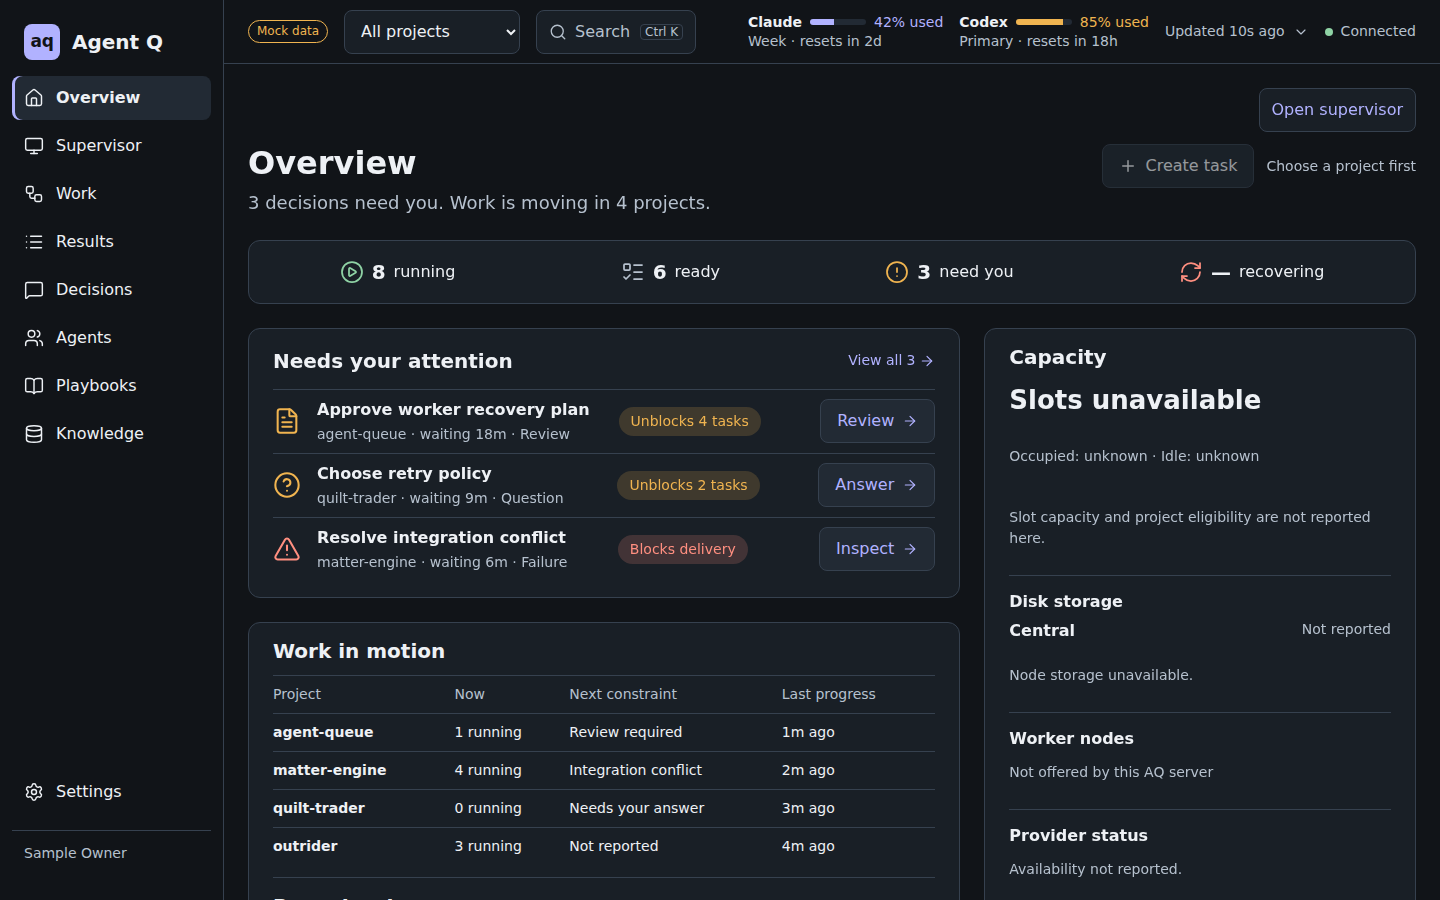
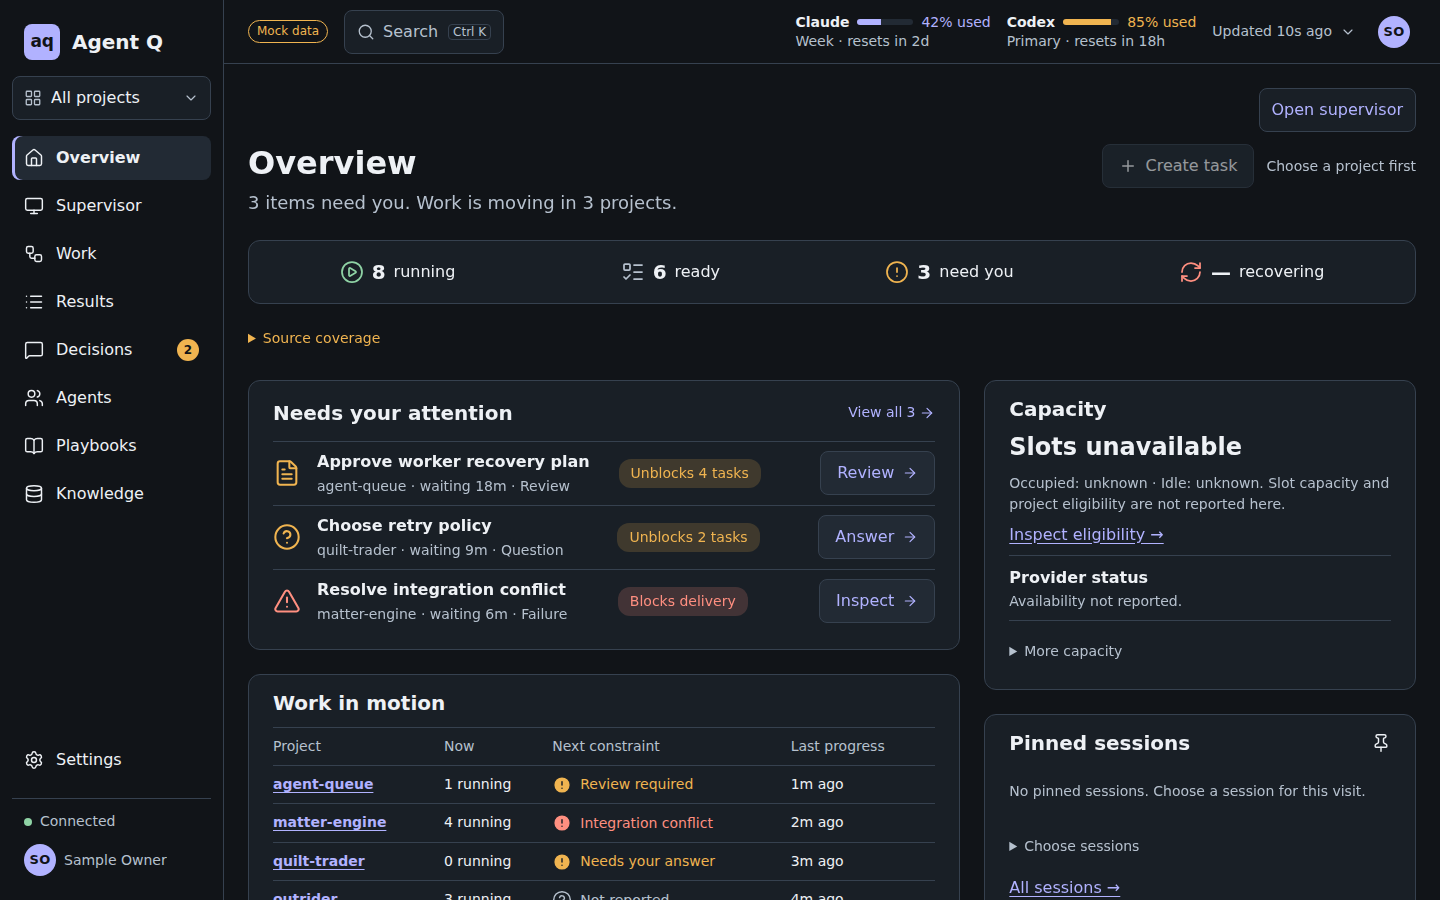
fix(shell,overview): Decisions badge counts reviews+questions; needs_you copy says items; usage staleness follows poll (RR-02, SO-08)
- RR-02: aq-server #97 made counts.needs_you count every attention item
  (offline workers, failed results). The rail Decisions badge now sums the
  overview's reviews and questions source totals (approximate unless all
  are exact and complete; no badge when unknown or zero). The Overview
  summary says "N items need you" instead of "decisions". Mock overview
  publishes reviews/questions sources like the server.
- SO-08: a provider usage reading is stale only once it outlives both its
  fresh_until and the 60 s poll interval plus a 30 s margin; unknown-quality
  readings report nothing to age and are never stale. A failed refresh
  still marks retained values stale.

diff --git a/src/app/Shell.test.tsx b/src/app/Shell.test.tsx
@@ -3,7 +3,8 @@ import userEvent from "@testing-library/user-event";
 import { vi } from "vitest";
 import { http, HttpResponse } from "msw";
 import { setupServer } from "msw/node";
-import { handlersFor } from "../mocks/handlers";
+import { envelope, handlersFor } from "../mocks/handlers";
+import { overview } from "../mocks/inspectionData";
 import { renderApp } from "../test/renderApp";
 import usageFixture from "../../contracts/proposed/provider-usage.json";
 
@@ -206,10 +207,28 @@ test("desktop rail holds the scope picker; the header does not", async () => {
   expect(within(screen.getByRole("banner")).queryByRole("combobox")).not.toBeInTheDocument();
 });
 
-test("Decisions shows the scoped pending count from the overview", async () => {
+test("Decisions shows the scoped open-decision count (reviews + questions), not every attention item (RR-02)", async () => {
+  // The fixture has 3 attention rows: a decision, a question and a failure.
   renderApp("/overview");
   const nav = await rail();
-  expect(await within(nav).findByRole("link", { name: "Decisions, 3 pending" })).toBeInTheDocument();
+  expect(await within(nav).findByRole("link", { name: "Decisions, 2 pending" })).toBeInTheDocument();
+});
+
+test("RR-02: needs_you counting offline workers and failed results never inflates the Decisions badge", async () => {
+  // Shape of the live MS1 overview: 6 attention items, none of them a review or question.
+  const live = overview(null);
+  const respond = (reviews: number) => server.use(http.get("/api/v1/overview", () => HttpResponse.json(envelope({ ...live,
+    counts: { ...live.counts, needs_you: { value: 6, accuracy: "estimated" as const } },
+    sources: [{ source: "reviews", project: null, observation: null, coverage: { state: "partial" as const }, total: { value: reviews, accuracy: "estimated" as const } },
+      { source: "questions", project: null, observation: null, coverage: { state: "unknown" as const }, total: { value: null, accuracy: "unknown" as const } }] }))));
+  respond(0);
+  const { queryClient } = renderApp("/overview");
+  const nav = await rail();
+  await screen.findByText(/About 6 items need you\./);
+  expect(within(nav).getByRole("link", { name: "Decisions" })).toHaveTextContent(/^Decisions$/);
+  respond(4);
+  await queryClient.refetchQueries({ predicate: q => q.queryKey[4] === "overview" });
+  expect(await within(nav).findByRole("link", { name: "Decisions, 4 pending, approximate" })).toHaveTextContent("~4");
 });
 
 test("Decisions has no badge when nothing is pending", async () => {

diff --git a/src/api/adapters/providerUsage.ts b/src/api/adapters/providerUsage.ts
@@ -35,6 +35,24 @@ export type ProviderUsageResult = {
 };
 
 const KNOWN_STATES = new Set<string>(["known", "unknown", "unavailable"]);
+/** Usage poll budget (docs/plans/0001 section 2); subject to server limits. */
+export const USAGE_POLL_MS = 60_000;
+/** Slack for a slow poll before an unrefreshed reading counts as stale. */
+const USAGE_STALE_MARGIN_MS = 30_000;
+/**
+ * A reading is stale only once it outlives both its own fresh_until and the
+ * dashboard's poll interval plus a margin (SO-08): AQ may mark an observation
+ * fresh for seconds, but the strip only asks again every minute, so a short
+ * fresh_until alone would read "Stale" most of the time. An `unknown`-quality
+ * observation reports nothing that can age, so it is never marked stale.
+ * A failed refresh still marks the retained values stale (useProviderUsage).
+ */
+export function usageStale(serverTime: string, observedAt: string, freshUntil: string, quality: string): boolean {
+  if (quality === "unknown") return false;
+  if (!isStale(serverTime, freshUntil)) return false;
+  const now = Date.parse(serverTime), observed = Date.parse(observedAt);
+  return Number.isNaN(observed) || now > observed + USAGE_POLL_MS + USAGE_STALE_MARGIN_MS;
+}
 
 function adaptWindow(win: QuotaWindow, serverTime: string): QuotaWindowView {
   if (!isRecord(win) || typeof win.id !== 'string' || typeof win.label !== 'string' || !isRecord(win.observation) ||
@@ -51,7 +69,7 @@ function adaptWindow(win: QuotaWindow, serverTime: string): QuotaWindowView {
     usedPercent: state === "known" ? pct! : null,
     resetsAt: win.resets_at ?? null,
     state,
-    freshness: isStale(serverTime, win.observation.fresh_until) ? "stale" : "fresh",
+    freshness: usageStale(serverTime, win.observation.observed_at, win.observation.fresh_until, win.observation.quality) ? "stale" : "fresh",
     observedAt: win.observation.observed_at,
     freshUntil: win.observation.fresh_until,
     quality: win.observation.quality,
@@ -91,7 +109,7 @@ export function atServerTime(result: ProviderUsageResult, serverTime: string): P
       ...p,
       windows: p.windows.map((w) => ({
         ...w,
-        freshness: isStale(serverTime, w.freshUntil) ? "stale" : "fresh",
+        freshness: usageStale(serverTime, w.observedAt, w.freshUntil, w.quality) ? "stale" : "fresh",
       })),
     })),
   };

diff --git a/tests/overview-header.spec.ts b/tests/overview-header.spec.ts
@@ -48,7 +48,7 @@ for (const vp of VIEWPORTS) {
       await page.goto("/overview");
       await expect(page.getByRole("region", { name: "Needs your attention" }).getByRole("listitem").first()).toBeVisible({ timeout: 15_000 });
       // SO-07: only projects reporting running work count as moving (one of the four mock projects runs nothing).
-      await expect(summary(page)).toHaveText("3 decisions need you. Work is moving in 3 projects.");
+      await expect(summary(page)).toHaveText("3 items need you. Work is moving in 3 projects.");
       await expectStackedHeader(page);
       // All projects: the existing Work path asks for a project first.
       const create = page.getByRole("button", { name: /create task/i });
@@ -64,7 +64,7 @@ for (const vp of VIEWPORTS) {
 
     test("project scope enables Create task and uses the zero summary form", async ({ page }) => {
       await page.goto(scoped);
-      await expect(summary(page)).toHaveText("No decisions need you. No work is in motion.", { timeout: 15_000 });
+      await expect(summary(page)).toHaveText("No items need you. No work is in motion.", { timeout: 15_000 });
       await expectStackedHeader(page);
       const create = page.getByRole("button", { name: /create task/i });
       await expect(create).toBeEnabled();
@@ -92,6 +92,6 @@ test("Create task is hidden without tasks.create", async ({ page }) => {
   await page.setViewportSize({ width: 1440, height: 900 });
   // Mock scenario whose bootstrap disables tasks.create and the other action capabilities.
   await page.goto("/overview?scenario=actions-unavailable");
-  await expect(summary(page)).toHaveText(/3 decisions need you/, { timeout: 15_000 });
+  await expect(summary(page)).toHaveText(/3 items need you/, { timeout: 15_000 });
   await expect(page.getByRole("button", { name: /create task/i })).toHaveCount(0);
 });

diff --git a/src/app/Shell.tsx b/src/app/Shell.tsx
@@ -4,6 +4,7 @@ import { SearchDialog } from "../features/search/SearchDialog";
 import { Link, NavLink, Outlet, useLocation } from "react-router";
 import { ChevronDown, Ellipsis, LayoutGrid, Search } from "lucide-react";
 import { adaptOverview, type OverviewView } from "../api/adapters/inspection";
+import { decisionTotal } from "../api/adapters/overview";
 import type { Overview as OverviewWire } from "../api/wire/overview";
 import type { Scope } from "../api/wire/proposed";
 import { useMediaQuery } from "../components/useMediaQuery";
@@ -29,8 +30,9 @@ const BADGE_POLL_MS = 30_000;
 
 /**
  * Pending count for the Decisions destination, from the scoped overview's
- * needs-you total (shared query with the Overview page). Null when unknown or
- * zero so the shell never shows an invented or empty badge.
+ * review and question source totals (shared query with the Overview page), not
+ * `needs_you`, which also counts offline workers and failed results (RR-02).
+ * Null when unknown or zero so the shell never shows an invented or empty badge.
  */
 type Badge = { text: string; label: string };
 function usePendingBadge(scope: Scope, enabled: boolean): Badge | null {
@@ -43,8 +45,8 @@ function usePendingBadge(scope: Scope, enabled: boolean): Badge | null {
     pollMs: BADGE_POLL_MS,
   });
   if (!enabled || !read.data || read.isError) return null;
-  const total = read.data.view.counts.needs_you;
-  if (total.value === null || total.value <= 0) return null;
+  const total = decisionTotal(read.data.view.sources);
+  if (!total || total.value === null || total.value <= 0) return null;
   const approximate = total.accuracy !== "exact" || read.data.coverage.state !== "complete";
   const shown = total.value > 99 ? "99+" : String(total.value);
   return {

diff --git a/src/api/adapters/providerUsage.test.ts b/src/api/adapters/providerUsage.test.ts
@@ -173,3 +173,23 @@ test("keeps the observation quality and coverage of each window", () => {
   ]);
   expect(win).toMatchObject({ quality: "estimated", coverage: "partial" });
 });
+
+describe("SO-08: staleness follows the dashboard's poll interval", () => {
+  const at = (seconds: number) => new Date(Date.parse("2026-11-06T09:24:36.541Z") + seconds * 1000).toISOString();
+  // Live shape: AQ marks the observation fresh for only 5 s; the strip polls every 60 s.
+  const live = (quality: QuotaWindow["observation"]["quality"]) => adaptProviderUsage({
+    api_version: "dashboard-read-1", request_id: "r", server_time: at(0), scope: { kind: "all_authorized" },
+    data: [{ provider_id: "anthropic", account_ref: "a", account_label: "a", scope: "provider_account", preferred_window_id: "week",
+      windows: [window({ observation: { observed_at: at(0), fresh_until: at(5), source: "collector", quality, coverage: "complete" } })] }],
+    observation: { observed_at: at(0), fresh_until: at(5), source: "aq", quality: "reported", coverage: "complete" }, pending_operations: [], coverage: { state: "complete" },
+  } as Envelope<ProviderUsage[]>);
+  const freshness = (result: ReturnType<typeof live>, seconds: number) => atServerTime(result, at(seconds)).providers[0]!.windows[0]!.freshness;
+  test("a reading past fresh_until but within poll interval + margin is not stale", () => {
+    const result = live("reported");
+    expect(freshness(result, 11)).toBe("fresh"); expect(freshness(result, 52)).toBe("fresh"); expect(freshness(result, 89)).toBe("fresh");
+    expect(freshness(result, 91)).toBe("stale");
+  });
+  test("an unknown-quality reading is not reported, never stale", () => {
+    expect(freshness(live("unknown"), 600)).toBe("fresh");
+  });
+});

diff --git a/src/mocks/inspectionData.ts b/src/mocks/inspectionData.ts
@@ -2,6 +2,7 @@
  * Mock-only sample data for DASHBOARD-PROPOSED D04 read models.
  * Illustrative values; never shipped in a live build.
  */
+import type { SourceObservation } from "../api/wire/overview";
 import type {
   Overview,
   ProjectRef,
@@ -105,7 +106,7 @@ function summary(s: Seed): TaskSummary {
 
 export const TASKS: TaskSummary[] = SEEDS.map(summary);
 
-export function overview(projectId: string | null, empty = false): Overview {
+export function overview(projectId: string | null, empty = false): Overview & { sources: SourceObservation[] } {
   const inScope = (p: ProjectRef) => !projectId || p.id === projectId;
   const tasks = TASKS.filter((t) => inScope(t.project));
   const count = (r: ReadinessState) => ({ value: tasks.filter((t) => t.readiness.state === r).length, accuracy: "exact" as const });
@@ -123,6 +124,12 @@ export function overview(projectId: string | null, empty = false): Overview {
       needs_you: { value: attention.length, accuracy: "exact" },
       recovering: { value: null, accuracy: "unknown" },
     },
+    // Like aq-server, open decisions are the review and question source totals (RR-02);
+    // needs_you counts every attention row.
+    sources: (["reviews", "questions"] as const).map((source) => ({
+      source, project: null, observation: null, coverage: { state: "complete" as const },
+      total: { value: attention.filter((a) => a.kind === (source === "reviews" ? "decision" : "question")).length, accuracy: "exact" as const },
+    })),
     attention,
     in_motion: PROJECTS.filter(inScope).map((p, i) => ({
       project: p,

diff --git a/tests/shell.spec.ts b/tests/shell.spec.ts
@@ -172,7 +172,7 @@ test.describe("rail scope, Decisions badge, connection and avatar (gap SH-J)", (
 
     const decisions = primary.getByRole("link", { name: /decisions, \d+ pending/i });
     await expect(decisions).toBeVisible();
-    await expect(decisions).toHaveAccessibleName("Decisions, 3 pending");
+    await expect(decisions).toHaveAccessibleName("Decisions, 2 pending");
 
     const connection = rail.getByRole("status").filter({ hasText: "Connected" });
     await expect(connection).toBeVisible();
@@ -207,7 +207,7 @@ test.describe("rail scope, Decisions badge, connection and avatar (gap SH-J)", (
     await expect(page.getByRole("complementary", { name: "Application navigation" })).toBeHidden();
     const compact = page.getByRole("navigation", { name: "Primary (compact)" });
     await compact.getByRole("button", { name: "More" }).click();
-    await expect(compact.getByRole("link", { name: "Decisions, 3 pending" })).toBeVisible();
+    await expect(compact.getByRole("link", { name: "Decisions, 2 pending" })).toBeVisible();
     expect(await hasPageHorizontalScroll(page)).toBe(false);
     const results = await new AxeBuilder({ page }).withTags(AXE_TAGS).analyze();
     expect(results.violations.map((v) => `${v.id}: ${v.nodes.length}`)).toEqual([]);

diff --git a/src/api/adapters/overview.ts b/src/api/adapters/overview.ts
@@ -29,6 +29,18 @@ export function adaptSources(input:unknown):SourceObservation[] {
   return result as SourceObservation;
  });
 }
+/**
+ * Open decisions (reviews and questions) from the overview's source totals (RR-02).
+ * `counts.needs_you` counts every attention item, offline workers and failed results
+ * included, so it is not a decision count. Null when no decision source reports a total.
+ */
+export function decisionTotal(sources:SourceObservation[]):TotalView|null {
+ const relevant=sources.filter(s=>s.source==='reviews'||s.source==='questions');
+ const known=relevant.filter(s=>s.total.value!==null);
+ if(!known.length)return null;
+ const exact=known.length===relevant.length&&relevant.every(s=>s.total.accuracy==='exact'&&s.coverage.state==='complete');
+ return {value:known.reduce((n,s)=>n+(s.total.value??0),0),accuracy:exact?'exact':'estimated'};
+}
 export function adaptOverview(input: unknown): OverviewView {
  if(!isRecord(input)||!isRecord(input.counts)||!Array.isArray(input.attention)||!Array.isArray(input.in_motion)||!Array.isArray(input.recent_outcomes)||input.sources!==undefined&&!Array.isArray(input.sources)) throw new ContractError('Invalid overview collections');
  const o=input as unknown as Overview;

diff --git a/src/features/overview/Overview.tsx b/src/features/overview/Overview.tsx
@@ -186,10 +186,11 @@ function NeedsYouCount({ total }: { total: NeedsYou }) {
 /** Plain-language attention count: estimated counts say "About", unknown never reads as zero. */
 export function attentionSentence(total: NeedsYou): string {
   if (total.atLeast) return `At least ${total.value} ${total.value === 1 ? "item needs" : "items need"} you.`;
-  if (total.value === null) return "The number of decisions that need you is unknown.";
+  // needs_you counts every attention item (decisions, offline workers, failed results...), so say "items" (RR-02).
+  if (total.value === null) return "The number of items that need you is unknown.";
   const n = total.value;
-  if (n === 0) return total.accuracy === "estimated" ? "Few or no decisions need you." : "No decisions need you.";
-  const phrase = `${n} ${n === 1 ? "decision needs" : "decisions need"} you.`;
+  if (n === 0) return total.accuracy === "estimated" ? "Few or no items need you." : "No items need you.";
+  const phrase = `${n} ${n === 1 ? "item needs" : "items need"} you.`;
   return total.accuracy === "estimated" ? `About ${phrase}` : phrase;
 }
 

diff --git a/src/features/overview/Overview.test.tsx b/src/features/overview/Overview.test.tsx
@@ -182,7 +182,10 @@ test('SO-07: work is moving only when a project reports running work',async()=>{
  expect(motionSentence([row(0),row(2)],true)).toBe('Work is moving in 1 project.');
  expect(motionSentence([row(null)],true)).toBe('Project movement is not reported.');
  expect(motionSentence([],true)).toBe('No work is in motion.');
- expect(attentionSentence(reconcileNeedsYou({value:3,accuracy:'exact'},2))).toBe('3 decisions need you.');
+ expect(attentionSentence(reconcileNeedsYou({value:3,accuracy:'exact'},2))).toBe('3 items need you.');
+ expect(attentionSentence({value:1,accuracy:'exact'})).toBe('1 item needs you.');
+ expect(attentionSentence({value:6,accuracy:'estimated'})).toBe('About 6 items need you.');
+ expect(attentionSentence({value:0,accuracy:'exact'})).toBe('No items need you.');
  expect(attentionSentence(reconcileNeedsYou({value:null,accuracy:'unknown'},1))).toBe('At least 1 item needs you.');
  expect(attentionSentence(reconcileNeedsYou({value:null,accuracy:'unknown'},0))).toMatch(/unknown/);
 });

diff --git a/src/app/useProviderUsage.ts b/src/app/useProviderUsage.ts
@@ -2,6 +2,7 @@ import { useQuery } from "@tanstack/react-query";
 import {
   adaptProviderUsage,
   atServerTime,
+  USAGE_POLL_MS,
   type ProviderUsageResult,
 } from "../api/adapters/providerUsage";
 import { ApiError, apiGet, isProtectedReadFailure } from "../api/client";
@@ -13,8 +14,7 @@ import type { ProviderUsageState } from "../components/ProviderUsageStrip/Provid
 import { useServerNow } from "../components/time/useServerNow";
 import { useSession } from "./session";
 
-/** Initial budget from docs/plans/0001 section 2; subject to server limits. */
-const QUOTA_POLL_MS = 60_000;
+const QUOTA_POLL_MS = USAGE_POLL_MS;
 /** A hung request must not keep the last value looking current. */
 const QUOTA_TIMEOUT_MS = 15_000;
 

diff --git a/src/mocks/handlers.ts b/src/mocks/handlers.ts
@@ -10,7 +10,7 @@ import { withDecisionFixtures } from "./decisionFixtures";
 import { questionHandlers, withQuestionFixtures } from "./questions";
 import { PLAYBOOK_CAPABILITIES, playbookActionHandlers, playbookCapabilities, playbookHandlers, playbookMode } from "./playbooks";
 
-function envelope<T>(data: T, scope: Scope = { kind: "all_authorized" }, coverage: Coverage = { state: "complete" }): Envelope<T> {
+export function envelope<T>(data: T, scope: Scope = { kind: "all_authorized" }, coverage: Coverage = { state: "complete" }): Envelope<T> {
   return {
     api_version: "proposed-0",
     request_id: "mock",
